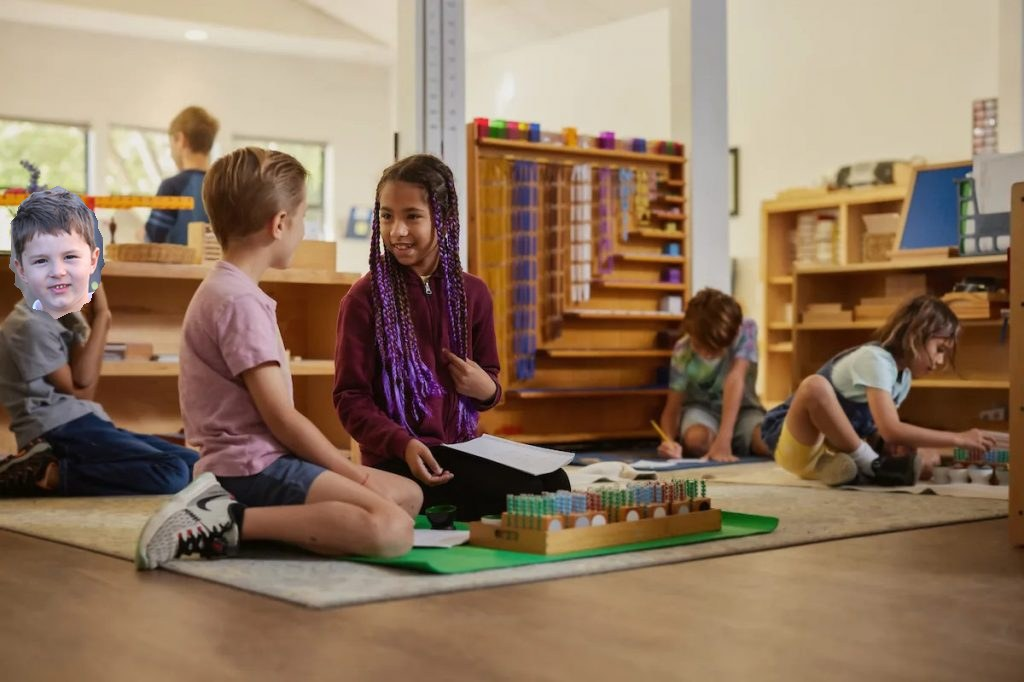
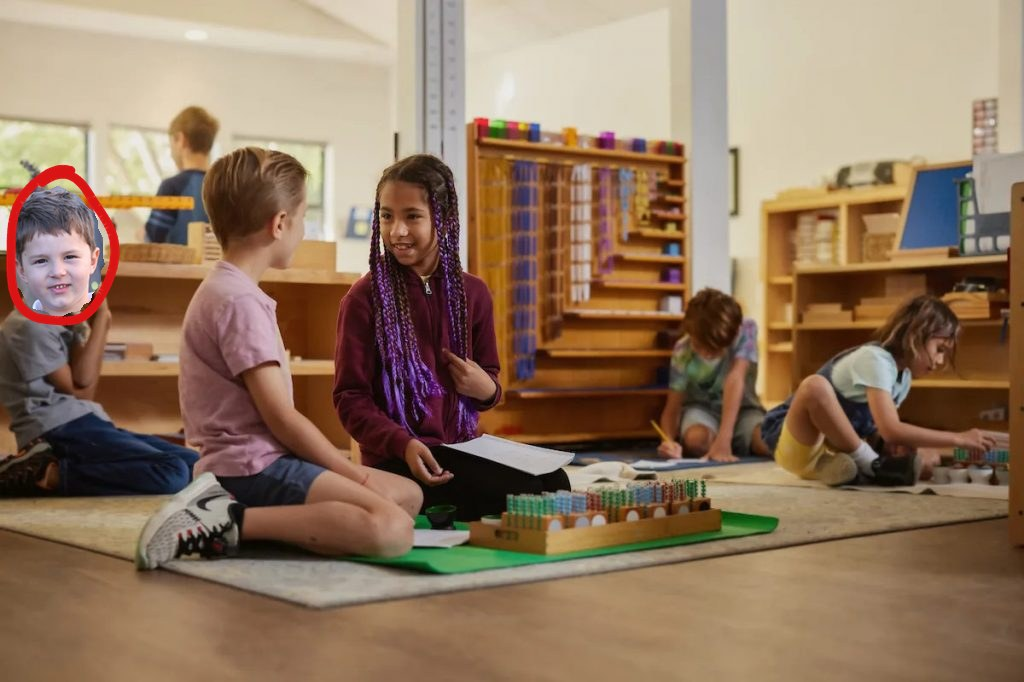
Narrative: say plainly what the EMS years were, and let the line wander until NC State
The EMS stop is now "worked on an ambulance", with the 12 hour shifts and why
medicine gave way to engineering. "applied to colleges" rides the curve into
NC State, the white line drifts through faint tints before turning red there,
the Montessori face gets the same red loop as the EMS photo, and the closing
line is broader.

Changed region(s): [[0.0312, 0.3079, 0.125, 0.4927], [0.0, 0.2771, 0.0312, 0.4619], [0.0312, 0.2463, 0.0938, 0.3079]]

diff --git a/index.html b/index.html
@@ -244,8 +244,21 @@
     <div class="tl-field" style="--h: 2850">
 
       <svg class="tl-lines" viewBox="0 0 100 2850" preserveAspectRatio="none" fill="none" aria-hidden="true">
+        <defs>
+          <linearGradient id="tl-drift" gradientUnits="userSpaceOnUse" x1="0" y1="0" x2="0" y2="1300">
+            <stop offset="0.000" stop-color="#F0F0F0"/>
+            <stop offset="0.085" stop-color="#F0F0F0"/>
+            <stop offset="0.200" stop-color="#C9DBF2"/>
+            <stop offset="0.331" stop-color="#CDEBD6"/>
+            <stop offset="0.469" stop-color="#F2E2BC"/>
+            <stop offset="0.615" stop-color="#DCCBF2"/>
+            <stop offset="0.754" stop-color="#C6E6EA"/>
+            <stop offset="0.885" stop-color="#F4D2C2"/>
+            <stop offset="1.000" stop-color="#F0D6D6"/>
+          </linearGradient>
+        </defs>
         <path class="tl-rule" d="M0 2330 C 20 2326, 40 2334, 60 2329 S 90 2326, 100 2331"/>
-        <path class="tl-walk" d="M50 0 C 50 50, 38 78, 30 110 C 31 260, 58 420, 73 430 C 71 600, 40 790, 24 800 C 27 1100, 44 1260, 50 1300"/>
+        <path class="tl-walk" d="M50 0 C 50 50, 38 78, 30 110 C 31 260, 58 420, 73 430 C 71 600, 40 790, 24 800 C 27 1100, 44 1260, 50 1300" stroke="url(#tl-drift)"/>
         <path class="tl-branch" d="M50 1430 C 46 1440, 33 1450, 27 1520"/>
         <path class="tl-branch" d="M50 1620 C 55 1630, 70 1640, 74 1710 C 76 1880, 72.5 2060, 75 2220 S 76.5 2500, 76 2560"/>
         <path class="tl-branch" d="M74.65 1839 C 71 1850, 64 1855, 62 1900"/>
@@ -278,7 +291,7 @@
         <div class="tl-body">
           <p class="tl-say">Montessori School of Raleigh was my middle school and Sanderson High School was my high school.</p>
           <img class="tl-pic" src="/assets/covers/montessori-me.jpg" width="1024" height="682" loading="lazy"
-               alt="A Montessori classroom, with my six year old face badly pasted onto one of the kids">
+               alt="A Montessori classroom, with my six year old face badly pasted onto one of the kids and circled in red">
         </div>
       </section>
       <section class="tl-beat side-l" style="--x: 24; --y: 800">
@@ -290,13 +303,17 @@
         </span>
         <div class="tl-body">
           <p class="tl-year">2022 to 2024</p>
-          <h2>riding 911s</h2>
+          <h2>worked on an ambulance</h2>
           <p class="tl-org">Wake County EMS cadet</p>
-          <div class="tl-turn"><p>i wanted to be a doctor;</p><p class="tl-but">but the hours were too long.</p></div>
+          <p class="tl-fact">12 hour shifts responding to 911 calls while still in high school. it's where i learned what hard work takes.</p>
+          <div class="tl-turn"><p>i wanted to be a doctor;</p><p class="tl-but">but a doctor helps one patient at a time, and i wanted to help as many people as possible.</p></div>
           <img class="tl-pic" src="/assets/covers/ems-cadets.jpg" width="1200" height="888" loading="lazy"
                alt="Wake County EMS Cadet Program class of 2022, with me circled in red at the back">
         </div>
       </section>
+      <div class="tl-ride" style="--x: 35.875; --y: 1147.5; --dx: 32.25; --dy: 495">
+        <span>applied to colleges</span>
+      </div>
       <section class="tl-beat side-r ncsu on-spine" style="--x: 50; --y: 1300">
         <span class="tl-node">
           <svg viewBox="0 0 40 40" fill="none" role="img" aria-label="a pennant">
@@ -430,7 +447,7 @@
     <section class="tl-end" aria-label="What comes next">
       <span class="tl-dot" aria-hidden="true"></span>
       <p class="tl-year">next</p>
-      <p class="tl-say">I want to help scale metal printing into factories, and in the future, onto the Moon.</p>
+      <p class="tl-say">I want to build things that keep going, farther than anyone can follow.</p>
       <nav class="links" aria-label="Contact">
         <a href="/assets/Luke-Caffarey-Resume.pdf" target="_blank" rel="noopener">Resume</a>
         <a href="mailto:lacaffar@ncsu.edu">Email</a>

diff --git a/assets/css/site.css b/assets/css/site.css
@@ -1103,10 +1103,34 @@ body.split { overflow: hidden; }
 .tl-lines path { fill: none; stroke-linecap: round; vector-effect: non-scaling-stroke; }
 
 /* the walk carries straight on from the overture's line, so it matches it */
-.tl-walk   { stroke: var(--text); stroke-width: 1.7; opacity: 0.85; }
+/* its stroke is the faint drift gradient, set on the path in index.html: a
+   url(#id) written here would resolve against this file, not the page */
+.tl-walk   { stroke-width: 1.7; opacity: 0.85; }
 .tl-spine  { stroke: var(--wolf); stroke-width: 2.4; }
 .tl-branch { stroke: var(--text); stroke-width: 1.4; opacity: 0.75; }
 .tl-rule   { stroke: var(--text); stroke-width: 1.1; opacity: 0.38; }
+
+/* words lying along the walk, turned to the line's angle at that point */
+.tl-ride {
+  position: absolute;
+  left: calc(var(--x) * 1%);
+  top: calc(var(--y) * 1px);
+  width: 0;
+  height: 0;
+  transform-origin: 0 0;
+  transform: rotate(55deg);
+  transform: rotate(atan2(calc(var(--dy) * 1px), calc(var(--dx) * 1cqw)));
+}
+.tl-ride span {
+  position: absolute;
+  left: 0;
+  bottom: 7px;
+  transform: translateX(-50%);
+  white-space: nowrap;
+  font-size: 12px;
+  letter-spacing: 0.04em;
+  color: var(--soft-text);
+}
 
 .tl-beat {
   position: absolute;
@@ -1371,6 +1395,17 @@ body.split { overflow: hidden; }
   .tl-beat::before { content: ""; position: absolute; left: 21px; top: 22px; bottom: -22px;
                      width: 1.5px; background: var(--text); opacity: 0.7; }
   .tl-beat.ncsu::before { background: var(--wolf); opacity: 1; }
+  /* the same faint drift as the wide layout's walk, one tint per stop before
+     NC State (child 1 is the hidden svg, so the stops start at 2) */
+  .tl-beat:nth-child(2)::before { background: linear-gradient(#F0F0F0, #C9DBF2); }
+  .tl-beat:nth-child(3)::before { background: linear-gradient(#C9DBF2, #F2E2BC); }
+  .tl-beat:nth-child(4)::before { background: linear-gradient(#F2E2BC, #C6E6EA); }
+  /* on the rail the words just sit beside it, between the ambulance and NC State */
+  .tl-ride { position: relative; left: auto; top: auto; width: auto; height: auto;
+             transform: none; padding: 0 0 34px 58px; }
+  .tl-ride::before { content: ""; position: absolute; left: 21px; top: -22px; bottom: -22px;
+                     width: 1.5px; background: linear-gradient(#C6E6EA, #F4D2C2); opacity: 0.7; }
+  .tl-ride span { position: static; transform: none; }
   .tl-beat:last-child::before { display: none; }
   .tl-node { left: 0; top: 0; }
   .side-l .tl-body, .side-r .tl-body, .below .tl-body {
